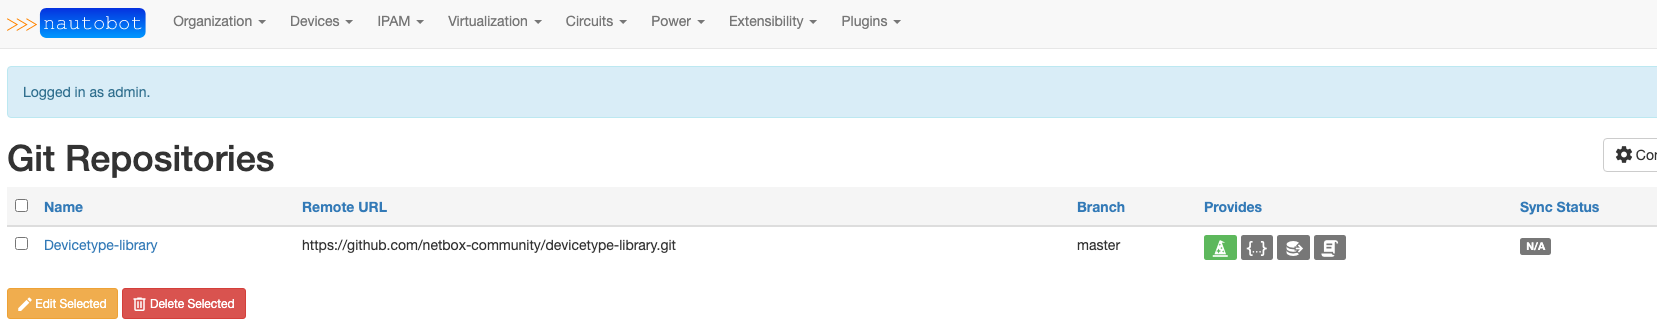
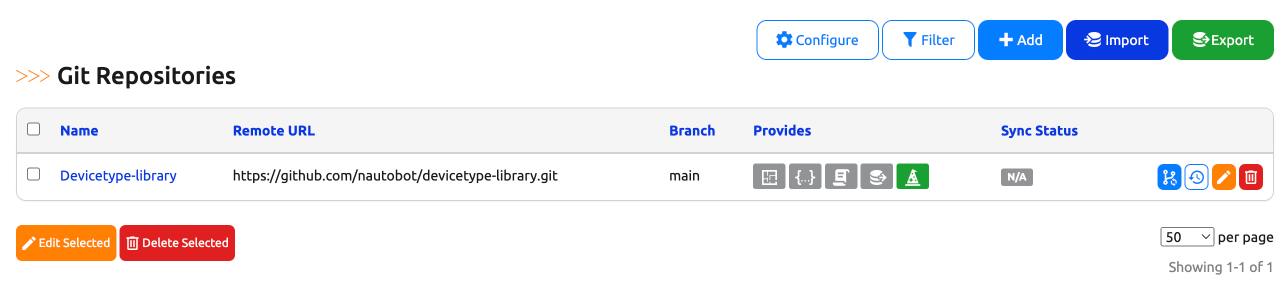
Switch devicetype-library to nautobot

diff --git a/welcome_wizard/views.py b/welcome_wizard/views.py
@@ -37,11 +37,11 @@ def check_sync(instance, request):
             repo = GitRepository(
                 name="Devicetype-library",
                 slug="devicetype_library",
-                remote_url="https://github.com/netbox-community/devicetype-library.git",
+                remote_url="https://github.com/nautobot/devicetype-library.git",
                 provided_contents=[
                     "welcome_wizard.import_wizard",
                 ],
-                branch="master",
+                branch="main",
             )
             repo.save()
 

diff --git a/docs/user/git_datasource.md b/docs/user/git_datasource.md
@@ -6,10 +6,10 @@ The Nautobot Welcome Wizard makes use of the [Git™ as a Data Source](https://d
 
 This set of instructions will walk an operator through setting up the Import Wizard repository.
 
-Import Wizard uses the file and folder structure of [devicetype-library](https://github.com/netbox-community/devicetype-library). Currently, [Import Wizard](app_getting_started.md#import-manufacturers) looks for a folder in the root directory called `device-types`. Convention has folders for manufacturers and the device type YAML files underneath the manufacturers folder. The [README](https://github.com/netbox-community/devicetype-library/blob/master/README.md) for the [devicetype-library](https://github.com/netbox-community/devicetype-library) goes into the details of what is required in the YAML files.
+Import Wizard uses the file and folder structure of [devicetype-library](https://github.com/nautobot/devicetype-library). Currently, [Import Wizard](app_getting_started.md#import-manufacturers) looks for a folder in the root directory called `device-types`. Convention has folders for manufacturers and the device type YAML files underneath the manufacturers folder. The [README](https://github.com/nautobot/devicetype-library/blob/main/README.md) for the [devicetype-library](https://github.com/nautobot/devicetype-library) goes into the details of what is required in the YAML files.
 
 !!! note
-    The [devicetype-library](https://github.com/netbox-community/devicetype-library) is not required to be used. You can swap it with your own repo as long as it follows the same structure.
+    The [devicetype-library](https://github.com/nautobot/devicetype-library) is not required to be used. You can swap it with your own repo as long as it follows the same structure.
 
 In order to setup this repository, go to Nautobot and navigate to the Data Sources Git integration: `Extensibility -> Git Repositories`.
 

diff --git a/docs/user/app_use_cases.md b/docs/user/app_use_cases.md
@@ -8,7 +8,7 @@ The Nautobot Welcome Wizard includes a great dashboard to help you get started w
 
 ### The Dashboard
 
-This is where the Welcome Wizard Dashboard will help. It is a single location you can visit to find links to common dependencies. If a resource in Nautobot requires another it will be listed here. The `Name` column includes links to view a list of the associated resources. The `Completed` column will show if a resource has been created. The `Ignored` column allows the administrator (through the admin panel) tp mark a dependency as ignored if that resource that will be unused. Finally, the `Actions` column will have two button links. The first is a green plus which will take you to the resource creation form. The blue wizard hat will take you to the [Import Wizard](app_getting_started.md#import-manufacturers) allowing you to import from a git repository.
+This is where the Welcome Wizard Dashboard will help. It is a single location you can visit to find links to common dependencies. If a resource in Nautobot requires another it will be listed here. The `Name` column includes links to view a list of the associated resources. The `Completed` column will show if a resource has been created. The `Ignored` column allows the administrator (through the admin panel) to mark a dependency as ignored if that resource will be unused. Finally, the `Actions` column will have two button links. The first is a green plus which will take you to the resource creation form. The blue wizard hat will take you to the [Import Wizard](app_getting_started.md#import-manufacturers) allowing you to import from a git repository.
 
 ![Welcome Wizard](../images/welcome_wizard.png)
 

diff --git a/docs/user/app_getting_started.md b/docs/user/app_getting_started.md
@@ -20,7 +20,8 @@ From the dashboard, you can click on the green Add button in the Sites role to t
 
 ### Import Manufacturers
 
-You can browse to the `Import Manufacturers` page to easily import selected manufacturers into Nautobot.
+You can browse to the `Import Manufacturers` page to easily import selected manufacturers into Nautobot. If the [Git Repository](git_datasource.md) 
+has not yet been synced, this page will initially be blank but the repository will be automatically synced (and created if necessary). You can refresh the page, once the repository has synced the manufacturers will become available.
 
 ![Import Manufacturers](../images/merlin_import_manufacturers.png)
 
@@ -44,7 +45,8 @@ Navigating to Manufacturers inside Nautobot will confirm these manufacturers wer
 
 ### Import Device Types
 
-You can browse to the `Import Device Types` page to easily import selected device types into Nautobot.
+You can browse to the `Import Device Types` page to easily import selected device types into Nautobot.  If the [Git Repository](git_datasource.md) 
+has not yet been synced, this page will initially be blank but the repository will be automatically synced (and created if necessary). You can refresh the page, once the repository has synced the device types will become available.
 
 ![Import Device Types](../images/merlin_import_device_type.png)
 

diff --git a/docs/user/app_overview.md b/docs/user/app_overview.md
@@ -12,7 +12,7 @@ The Welcome Wizard is an open-source Nautobot app with the goal to assist users 
 The Welcome Wizard adds four (4) key features:
 
 - Welcome Wizard uses the **Import Wizard** to allow ease of adding community-defined Device Types and Manufacturers into Nautobot. This is built upon the Git datasources feature of Nautobot.
-- Welcome Wizard includes by default the **[DeviceType-library](https://github.com/netbox-community/devicetype-library)**, but this can be disabled and a custom library can be used instead.
+- Welcome Wizard includes by default the **[DeviceType-library](https://github.com/nautobot/devicetype-library)**, but this can be disabled and a custom library can be used instead.
 - Welcome Wizard includes **banners** in forms to alert the user when required form fields have no associated resources in Nautobot.
 - The Welcome Wizard **Dashboard** contains a list of common Nautobot Data Models that many other Nautobot models require. This page allows ease of adding items to Nautobot or, if supported, importing them.
 

diff --git a/docs/admin/install.md b/docs/admin/install.md
@@ -66,5 +66,5 @@ The app behavior can be controlled with the following list of settings:
 
 | Key     | Example | Default | Description                          |
 | ------- | ------ | -------- | ------------------------------------- |
-| `enable_devicetype-library` | `True` | `True` | If enabled, the [device type](https://github.com/netbox-community/devicetype-library) git repository will be automatically added for you. |
+| `enable_devicetype-library` | `True` | `True` | If enabled, the [device type](https://github.com/nautobot/devicetype-library) git repository will be automatically added for you. |
 | `enable_welcome_banner` | `True` | `True` | If enabled, the Welcome Wizard banner will display on the home screen for authenticated users. |

diff --git a/docs/admin/release_notes/version_2.0.md b/docs/admin/release_notes/version_2.0.md
@@ -2,13 +2,13 @@
 
 ## Release Overview
 
-## [v2.0.0] - 2023-11-15
+## [v2.0.0 - (2023-11-15)](https://github.com/nautobot/nautobot-app-welcome-wizard/releases/tag/v2.0.0)
 
 ### Changed
 
 - [#85](https://github.com/nautobot/nautobot-app-welcome-wizard/pull/85) Updates for Nautobot v2
 
-## [v2.0.1 (2024-04-11)](https://github.com/nautobot/nautobot-app-welcome-wizard/releases/tag/v2.0.0)
+## [v2.0.1 (2024-04-11)](https://github.com/nautobot/nautobot-app-welcome-wizard/releases/tag/v2.0.1)
 
 ### Changed
 
